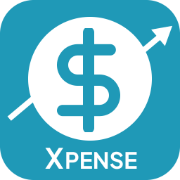
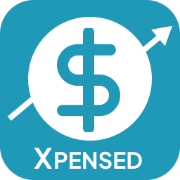
fix: update app asset

Changed region(s): [[0.1944, 0.8056, 0.8056, 0.9444]]

diff --git a/app/layout.js b/app/layout.js
@@ -6,8 +6,8 @@ const inter = Inter({ subsets: ['latin'] })
 
 export const metadata = {
   manifest: "/manifest.json", 
-  title: "Xpense Tracker",
-  description: "Track and manage your expense with Xpense",
+  title: "Xpensed",
+  description: "Track and manage your expense with Xpensed",
 };
 
 export default function RootLayout({ children }) {
